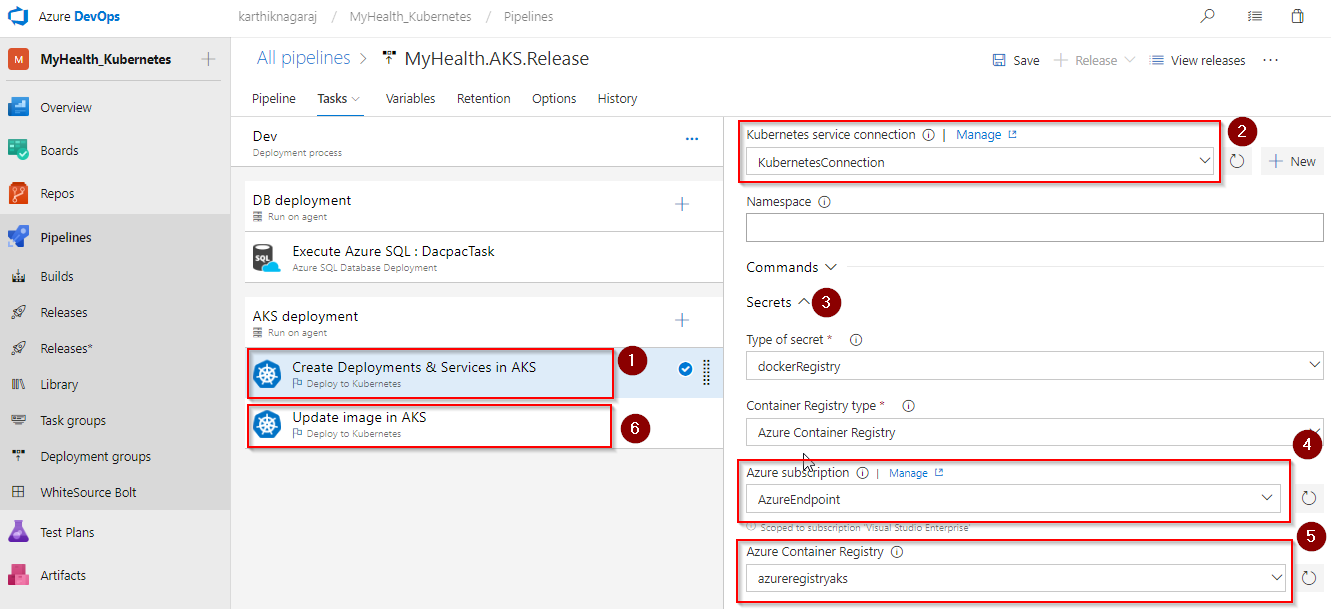
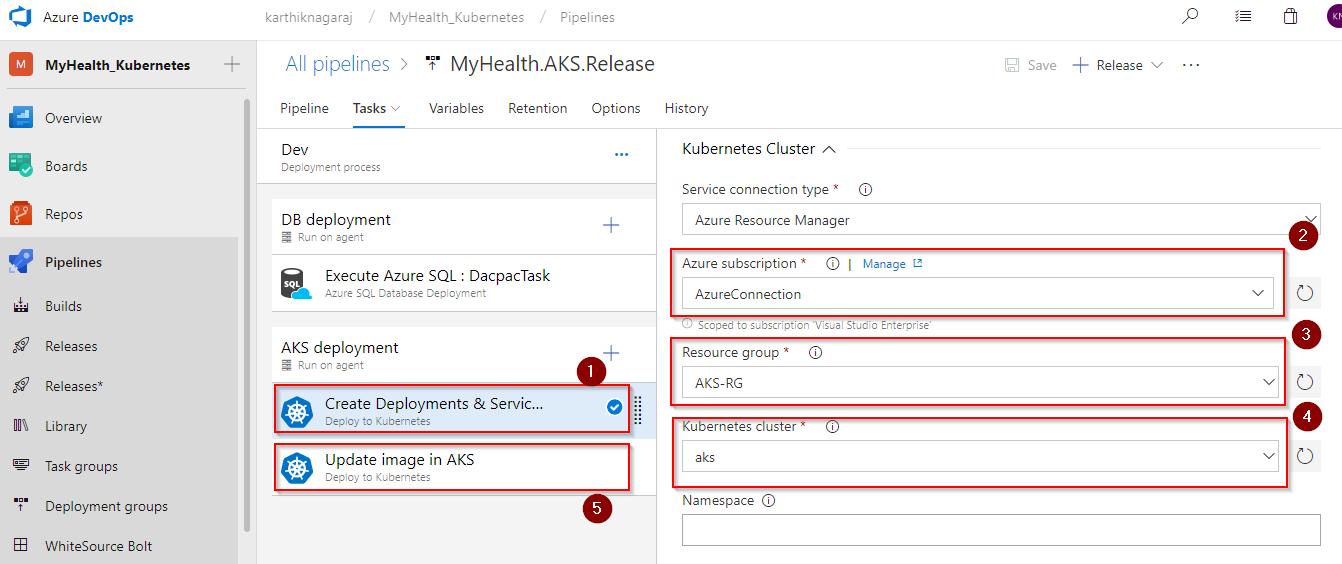
Updated images

diff --git a/labs/vstsextend/kubernetes/readme.md b/labs/vstsextend/kubernetes/readme.md
@@ -234,11 +234,13 @@ Now that the connections are established, we will manually map the created Azure
 
     ![update_CD3](images/update_CD3.png)
 
-1. In the **AKS deployment** phase, Under the **Create Deployments & Services in AKS** task, update the **Kubernetes Service Connection** value from the dropdown. Expand the **Secrets** section and update the parameters - **Azure subscription** and  **Azure Container Registry** with the endpoint components from the dropdown.
+1. In the **AKS deployment** phase, Under the **Create Deployments & Services in AKS** task, update the **Azure Subscription**, **Resource Group** and **Kubernetes cluster** value from the dropdown. Expand the **Secrets** section and update the parameters - **Azure subscription** and  **Azure Container Registry** with the endpoint components from the dropdown.
 
 1. Repeat similar steps for **Update image in AKS** task.
 
     ![update_rd1](images/update_rd1.png)
+
+    ![update_rd1](images/update_rd2.png)
 
     * **Create Deployments & Services in AKS** will create the deployments and services in AKS as per the configuration specified in **mhc-aks.yaml** file. The Pod, for the first time will pull the latest docker image.
 
